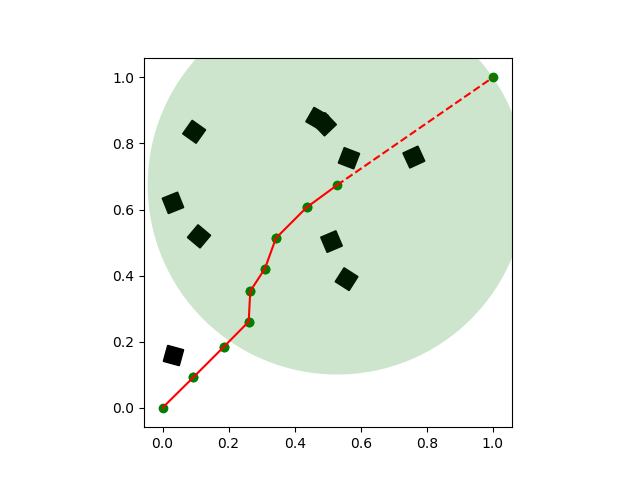
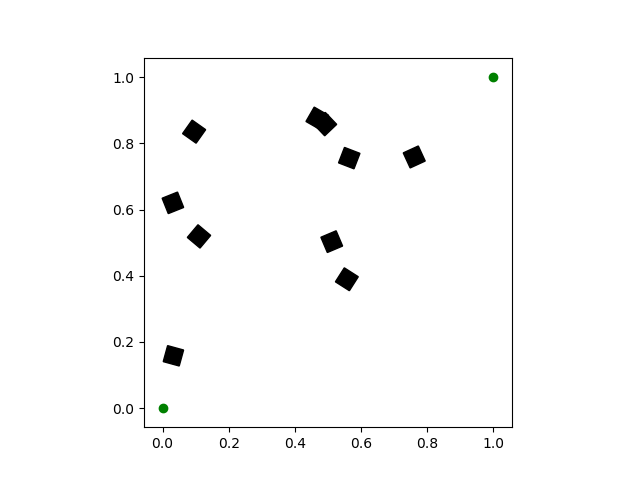
Margin of the Map

diff --git a/build/classes/psulu/PuLPpSulu.py b/build/classes/psulu/PuLPpSulu.py
@@ -28,7 +28,7 @@ import sys, pdb, math
 import yaml as Y
 
 class PathSolver:
-    def __init__(self, u_max, xInit, xT, A, B, horizon, poly_nsides=50, horizon_cost=0.5):
+    def __init__(self, u_max, xInit, xT, A, B, horizon, margin=None, poly_nsides=50, horizon_cost=0.5):
         '''
         Mixed integer programming based path planning
         '''
@@ -69,6 +69,10 @@ class PathSolver:
         self.__A        = A
         self.__B        = B
         self.gap        = None
+        self.margin     = margin
+        if self.margin != None:
+            if self.margin < 0:
+                raise Exception('Margin should be positive')
 
         self.msg        = 1
         self.__nu       = len(self.__B[0])
@@ -127,6 +131,19 @@ class PathSolver:
 
         for x_var, xi in zip(self.x[self.__N].values(), self.xT):
           self.prob.addConstraint(x_var == xi)
+
+        if self.margin != None:
+            # Add the boundary constraints 
+            xmin = min(self.xInit[0], self.xT[0]) - self.margin
+            xmax = max(self.xInit[0], self.xT[0]) + self.margin
+            ymin = min(self.xInit[1], self.xT[1]) - self.margin
+            ymax = max(self.xInit[1], self.xT[1]) + self.margin
+
+            for idx in range(1, self.__N):
+                for x_var, xm in zip(self.x[idx].values(), [xmin, ymin]):
+                    self.prob.addConstraint(x_var >= xm)
+                for x_var, xm in zip(self.x[idx].values(), [xmax, ymax]):
+                    self.prob.addConstraint(x_var <= xm)
 
         # Constraints on intermediate variables
         if self.receding_horizon:
@@ -484,8 +501,8 @@ class PathSolver:
         # Solve the optimization problem
         with tempfile.NamedTemporaryFile() as fp:
           # using temporary file to write log
-          #self.prob.solve(pulp.GUROBI_CMD(msg=self.msg, options={"TimeLimit": 300}))
-          self.prob.solve(pulp.GUROBI_CMD(msg=self.msg))
+          self.prob.solve(pulp.GUROBI_CMD(msg=self.msg, options={"TimeLimit": 300}))
+          #self.prob.solve(pulp.GUROBI_CMD(msg=self.msg))
 
           ## Read log file to get number of nodes explored
           #fp.seek(0)
@@ -625,6 +642,7 @@ class IRA(pSulu):
         u_max     = self.max_velocity
         self.MILP = PathSolver(u_max, self.start_location, self.end_location, \
                                self.__A, self.__B, self.receding_horizon, \
+                               margin=self.margin,
                                poly_nsides=self.horizon_polygon_size, \
                                horizon_cost=self.horizon_cost_proportion)
         self.MILP.addObstacles(self.__N, self.__H, self.__G, self.__zInit)

diff --git a/src/psulu/backup/PuLPpSulu.py b/src/psulu/backup/PuLPpSulu.py
@@ -28,7 +28,7 @@ import sys, pdb, math
 import yaml as Y
 
 class PathSolver:
-    def __init__(self, u_max, xInit, xT, A, B, horizon, margin=None, poly_nsides=50, horizon_cost=0.5):
+    def __init__(self, u_max, xInit, xT, A, B, horizon, poly_nsides=50, horizon_cost=0.5):
         '''
         Mixed integer programming based path planning
         '''
@@ -69,10 +69,6 @@ class PathSolver:
         self.__A        = A
         self.__B        = B
         self.gap        = None
-        self.margin     = margin
-        if self.margin != None:
-            if self.margin < 0:
-                raise Exception('Margin should be positive')
 
         self.msg        = 1
         self.__nu       = len(self.__B[0])
@@ -131,19 +127,6 @@ class PathSolver:
 
         for x_var, xi in zip(self.x[self.__N].values(), self.xT):
           self.prob.addConstraint(x_var == xi)
-
-        if self.margin != None:
-            # Add the boundary constraints 
-            xmin = min(self.xInit[0], self.xT[0]) - self.margin
-            xmax = max(self.xInit[0], self.xT[0]) + self.margin
-            ymin = min(self.xInit[1], self.xT[1]) - self.margin
-            ymax = max(self.xInit[1], self.xT[1]) + self.margin
-
-            for idx in range(1, self.__N):
-                for x_var, xm in zip(self.x[idx].values(), [xmin, ymin]):
-                    self.prob.addConstraint(x_var >= xm)
-                for x_var, xm in zip(self.x[idx].values(), [xmax, ymax]):
-                    self.prob.addConstraint(x_var <= xm)
 
         # Constraints on intermediate variables
         if self.receding_horizon:
@@ -501,8 +484,8 @@ class PathSolver:
         # Solve the optimization problem
         with tempfile.NamedTemporaryFile() as fp:
           # using temporary file to write log
+          #self.prob.solve(pulp.GUROBI_CMD(msg=self.msg, options={"TimeLimit": 300}))
           self.prob.solve(pulp.GUROBI_CMD(msg=self.msg))
-          #self.prob.solve(pulp.GUROBI_CMD(msg=self.msg))
 
           ## Read log file to get number of nodes explored
           #fp.seek(0)
@@ -642,7 +625,6 @@ class IRA(pSulu):
         u_max     = self.max_velocity
         self.MILP = PathSolver(u_max, self.start_location, self.end_location, \
                                self.__A, self.__B, self.receding_horizon, \
-                               margin=self.margin,
                                poly_nsides=self.horizon_polygon_size, \
                                horizon_cost=self.horizon_cost_proportion)
         self.MILP.addObstacles(self.__N, self.__H, self.__G, self.__zInit)

diff --git a/src/model/plan/Planner.java b/src/model/plan/Planner.java
@@ -1,7 +1,9 @@
 package model.plan;
 
+import java.io.BufferedReader;
 import java.io.File;
 import java.io.IOException;
+import java.io.InputStreamReader;
 import java.util.ArrayList;
 import java.util.List;
 import java.util.function.Consumer;
@@ -44,15 +46,18 @@ public class Planner implements IPlanner {
 			@Override
 			protected List<Point2D> call() throws Exception {
 				Runtime r = Runtime.getRuntime();
-				Process p = r.exec("python ./PuLPpSulu.py", null, new File(parser.getString("psulu_planner")));
+				// This only works on Feng's computer!
+				Process p = r.exec("./PuLPpSulu.py", null, new File(parser.getString("psulu_planner")));
+				// Use this for other Windows machine after adding Anaconda's python to system Path variable
+				// Process p = r.exec("python ./PuLPpSulu.py", null, new File(parser.getString("psulu_planner")));
 				p.waitFor();
 				// Debug
-				// BufferedReader stdOut = new BufferedReader(new
-				// InputStreamReader(p.getInputStream()));
-				// String s;
-				// while ((s = stdOut.readLine()) != null) {
-				// System.out.println(s);
-				// }
+				 BufferedReader stdOut = new BufferedReader(new
+				 InputStreamReader(p.getErrorStream()));
+				 String s;
+				 while ((s = stdOut.readLine()) != null) {
+				 System.out.println(s);
+				 }
 				ArrayList<ArrayList<String>> raw = (ArrayList<ArrayList<String>>) yamlIO
 						.loadArray(parser.getString("psulu_output"));
 				List<Point2D> vertices = new ArrayList<>();

diff --git a/src/frontend/model/operation/control/ControlType.java b/src/frontend/model/operation/control/ControlType.java
@@ -1,7 +1,7 @@
 package frontend.model.operation.control;
 
 public enum ControlType {
-	ChanceConstraint("Risk", "chance_constraint", 0.02d, 0.3d, 10, 75),
+	ChanceConstraint("Risk", "chance_constraint", 0.05d, 0.3d, 10, 75),
 	MaxVelocity("Maximum Lag Length", "max_velocity", 0.1d, 0.2d, 10, 20),
 	WayPoints("Number of Waypoints", "waypoints", 3d, 15d, 3, 15);
 	

diff --git a/build/classes/psulu/pSulu_api.py b/build/classes/psulu/pSulu_api.py
@@ -117,6 +117,7 @@ class pSulu(object):
   def __init__(self, configFile=None):
     self.environment             = None
     self.outFolder               = None
+    self.margin                  = None
     self.start_location          = None
     self.end_location            = None
     self.chance_constraint       = None

diff --git a/src/psulu/backup/pSulu_api.py b/src/psulu/backup/pSulu_api.py
@@ -117,7 +117,6 @@ class pSulu(object):
   def __init__(self, configFile=None):
     self.environment             = None
     self.outFolder               = None
-    self.margin                  = None
     self.start_location          = None
     self.end_location            = None
     self.chance_constraint       = None
